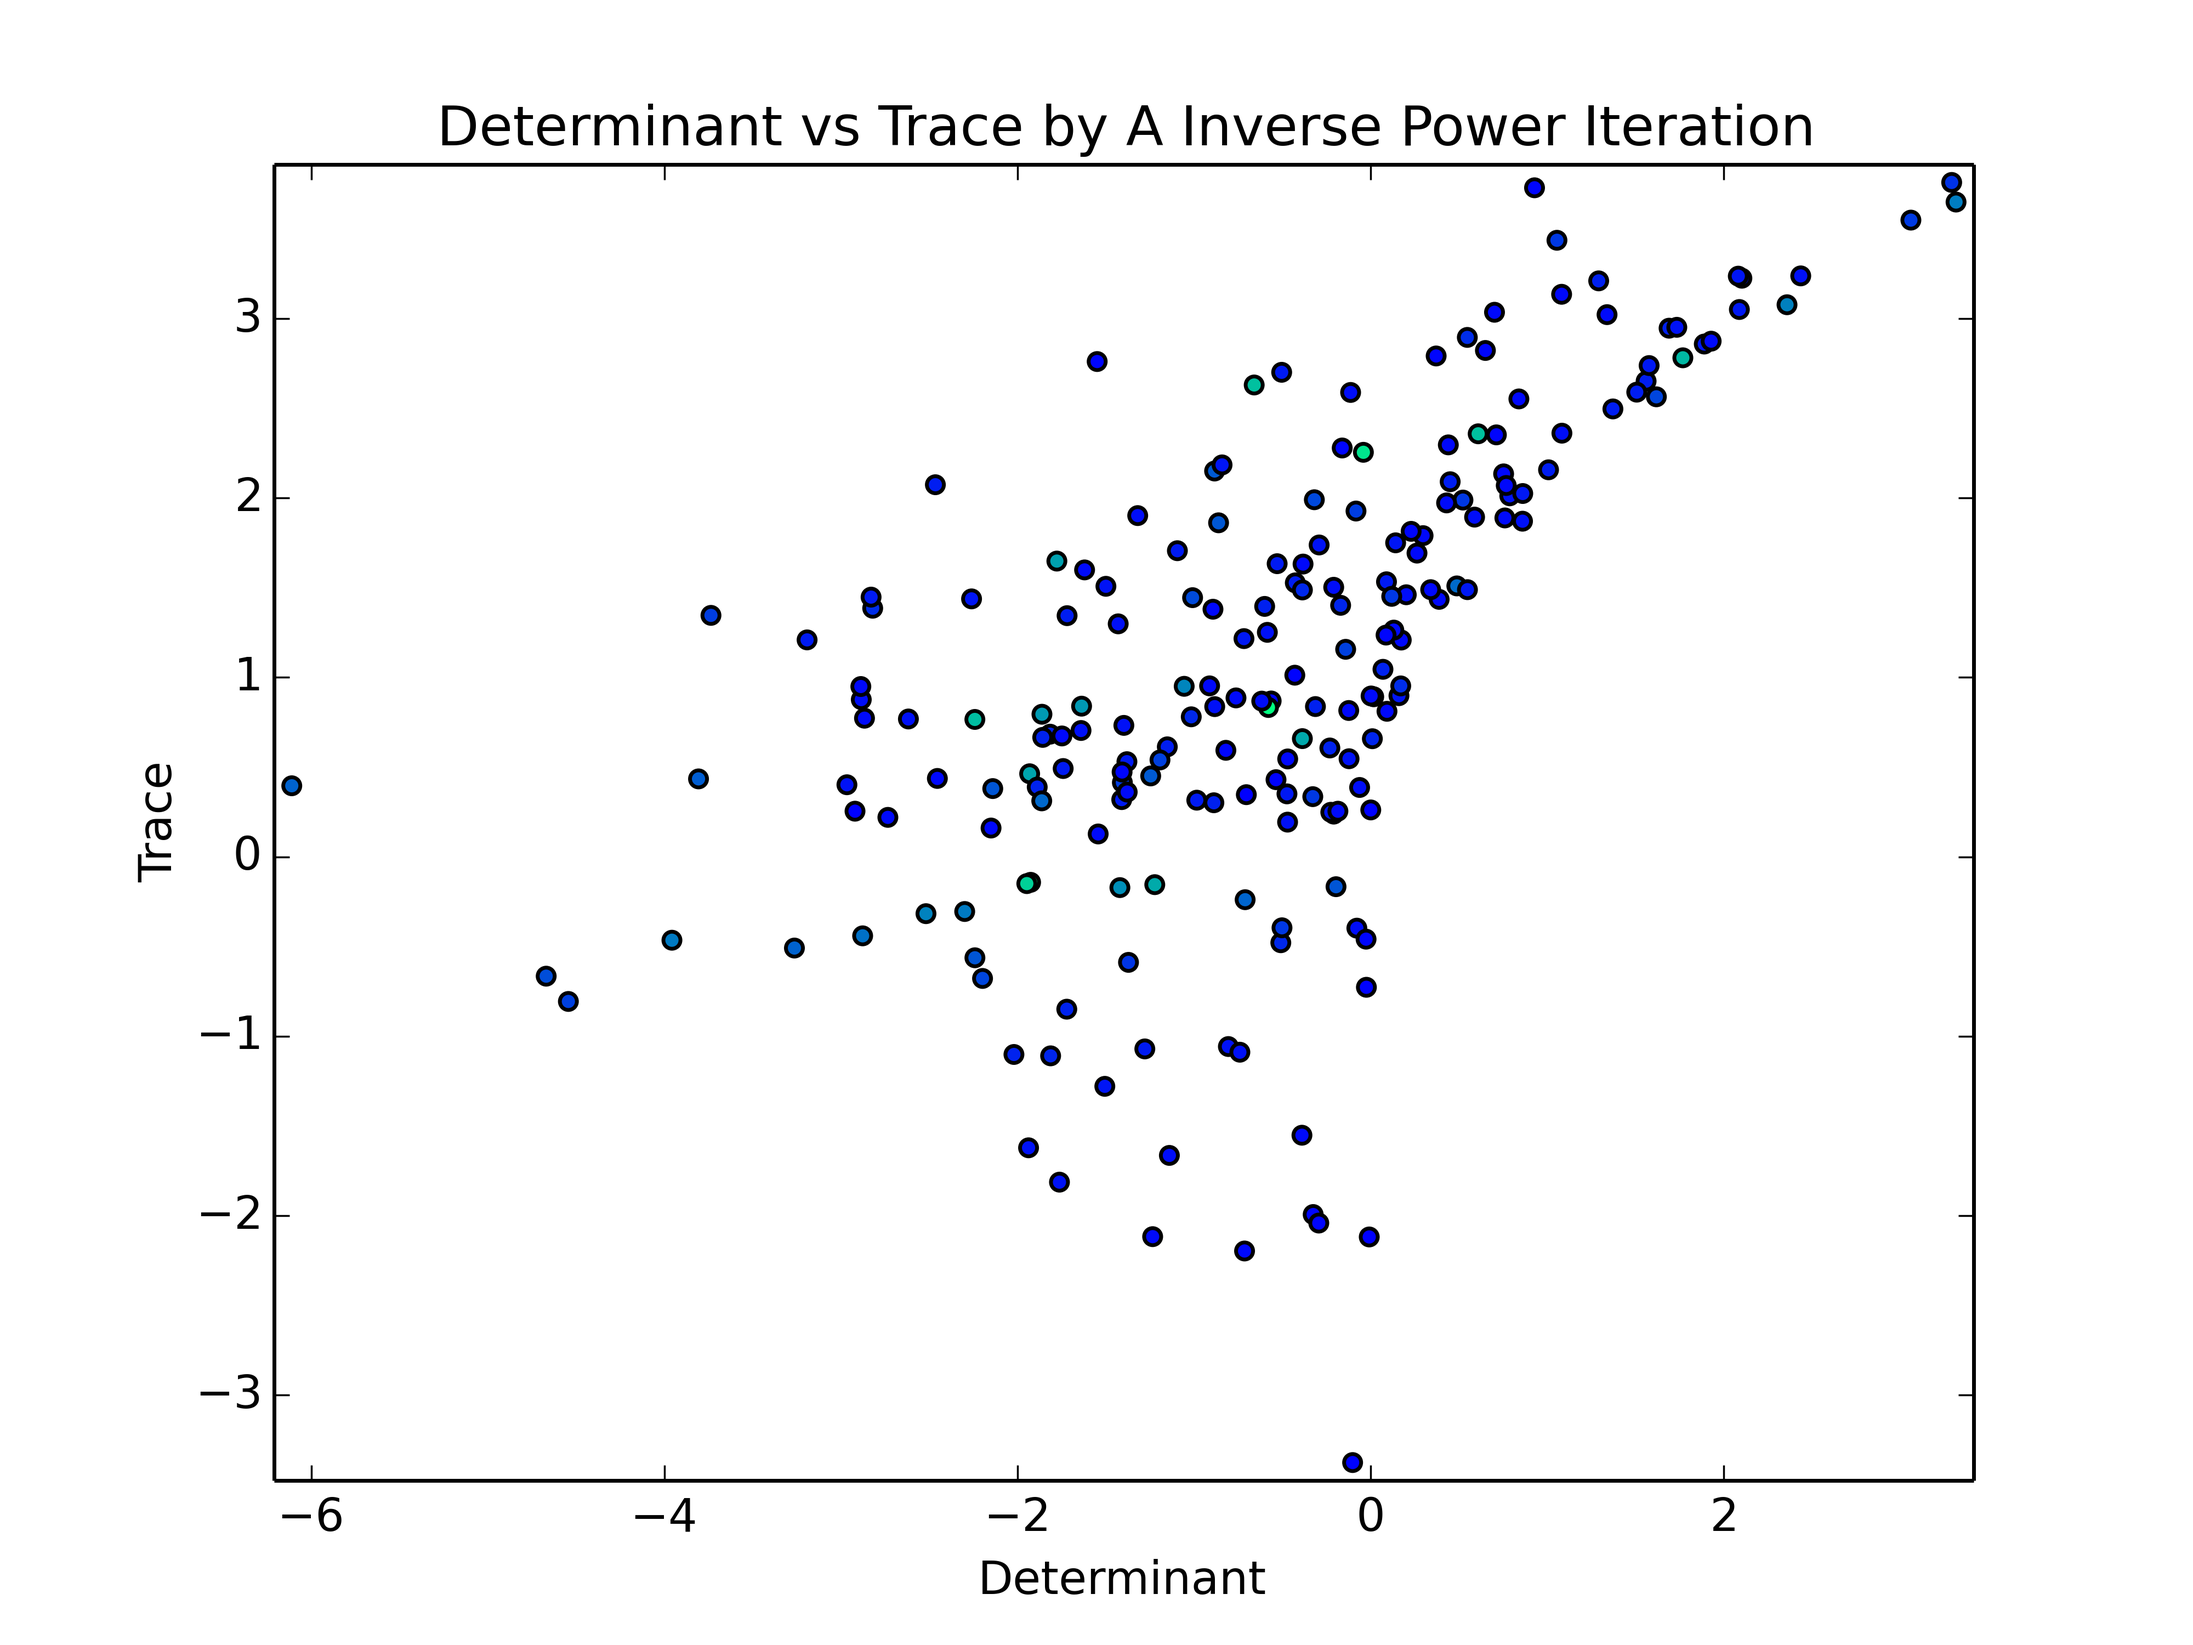
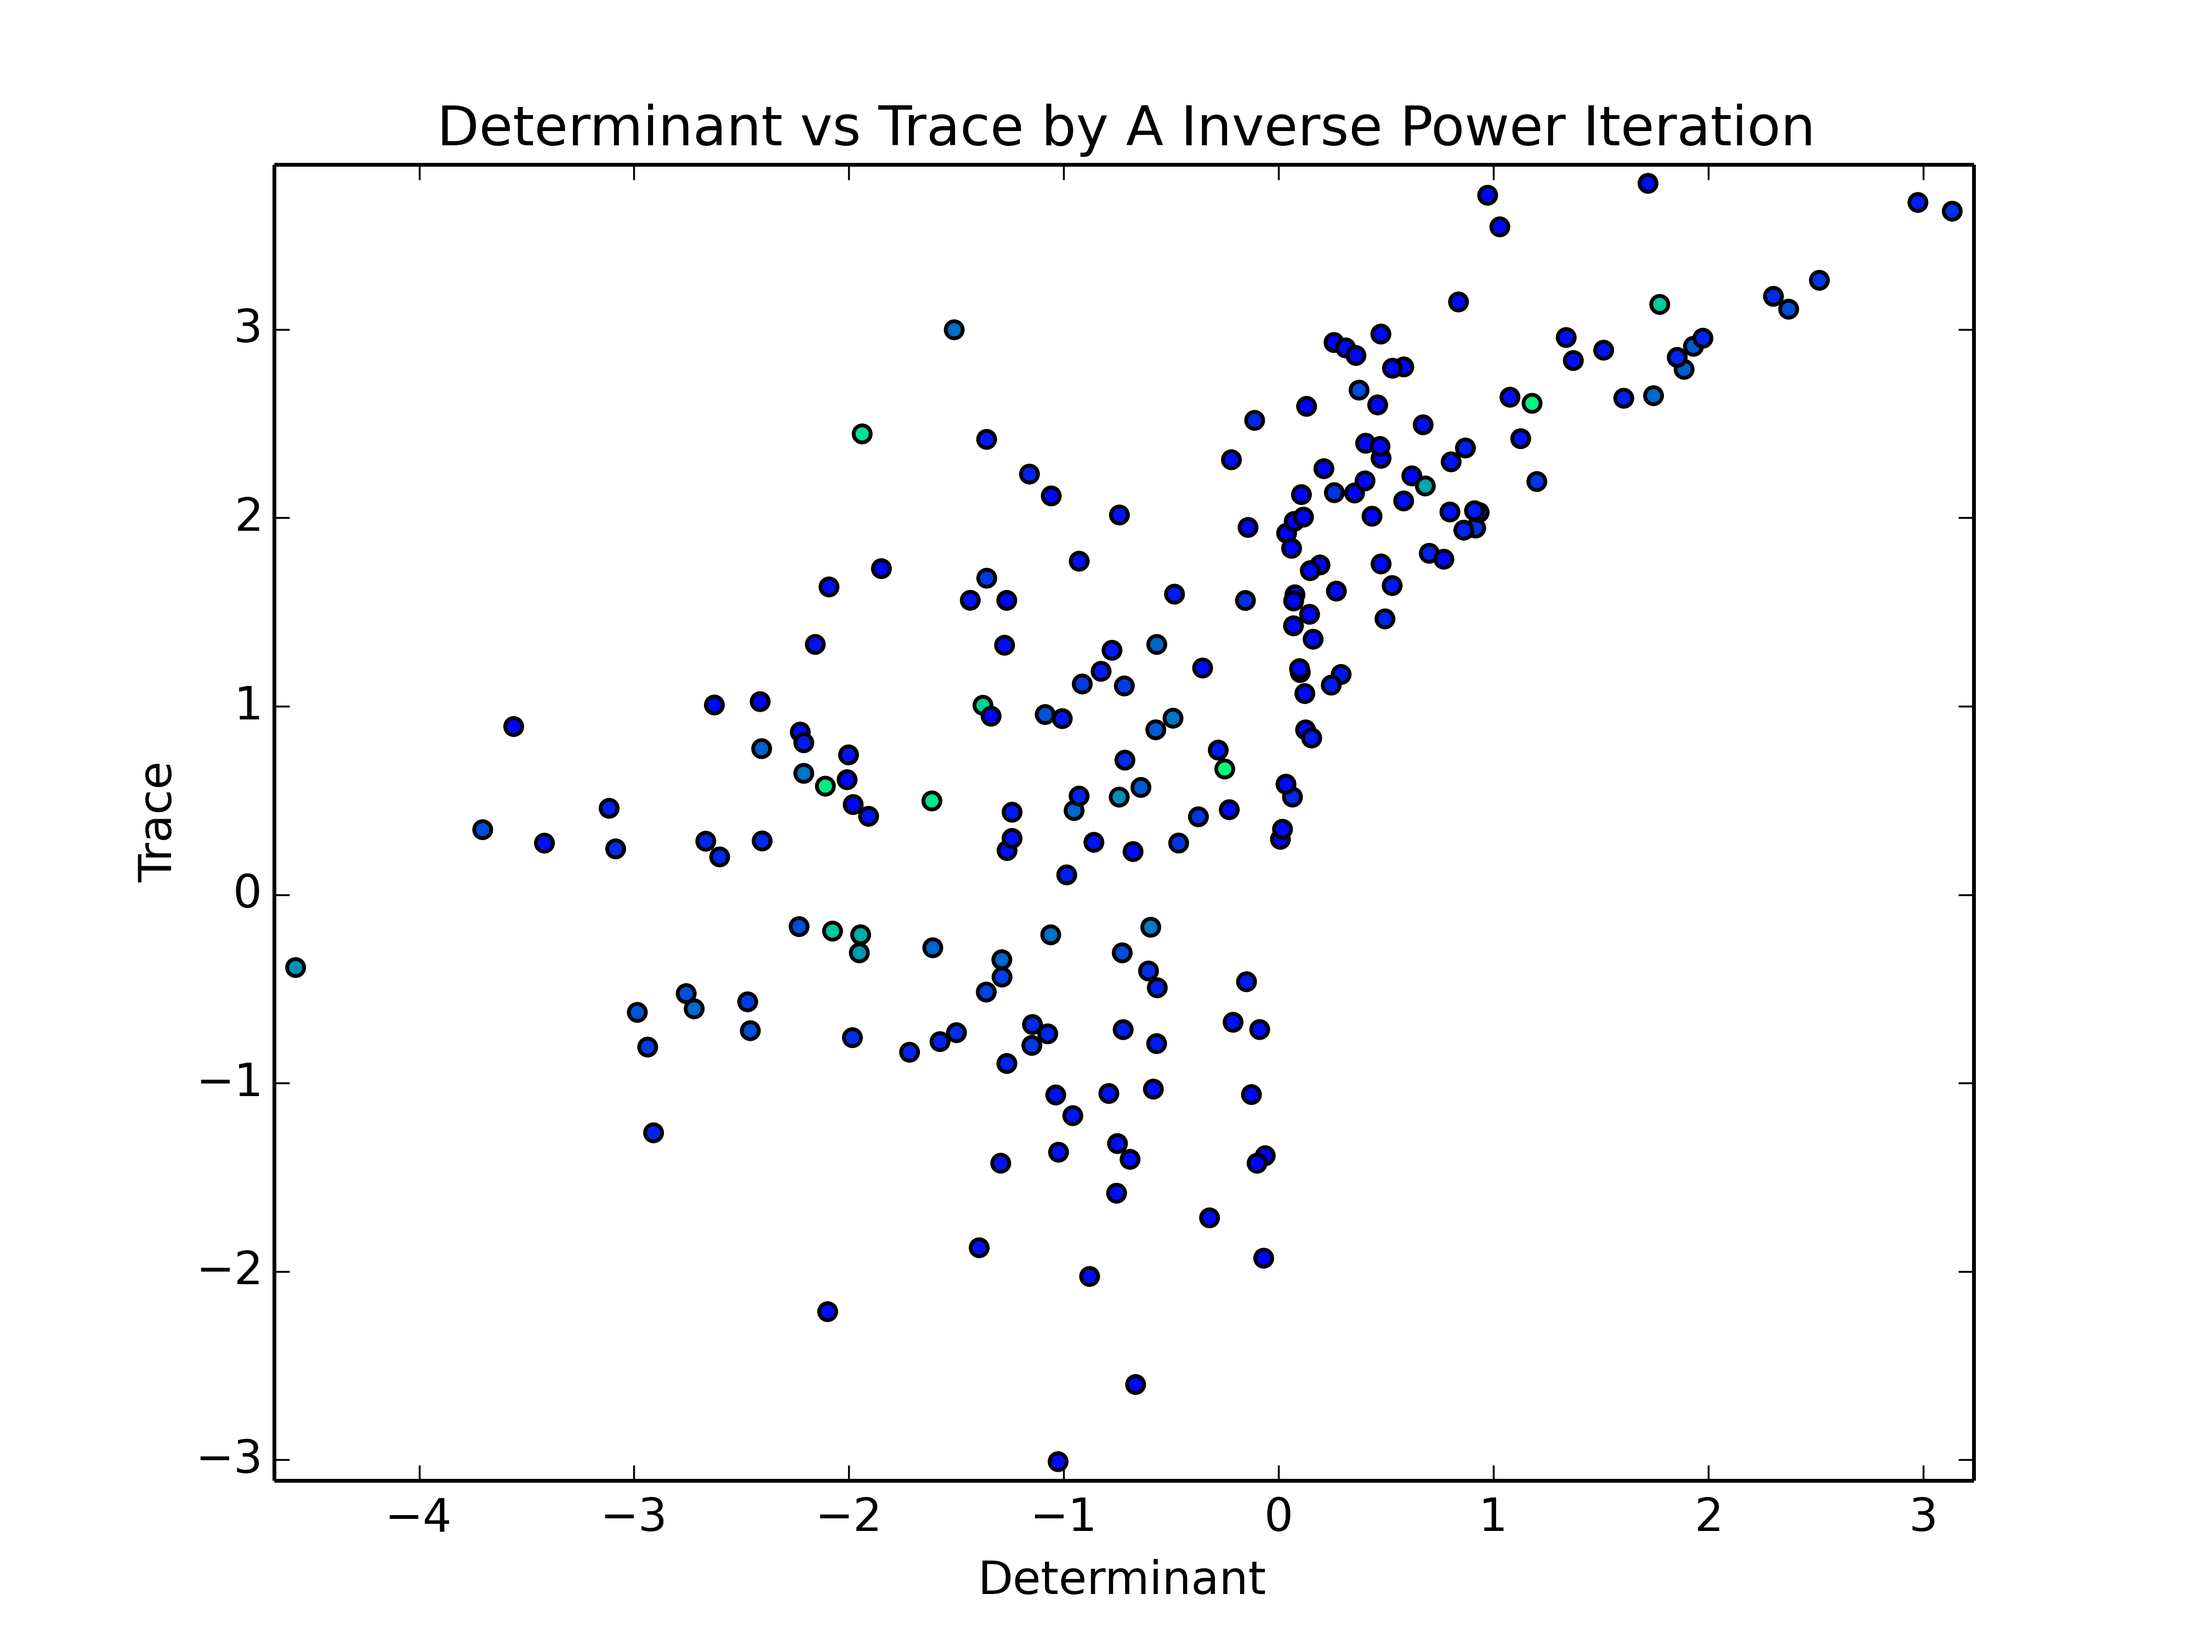
Run 3ii

diff --git a/writing_3_part_ii.py b/writing_3_part_ii.py
@@ -1,0 +1,29 @@
+import numpy as np
+
+from sys import stdout
+from iterative_methods import power
+import util
+
+A = [-2, 1, 2, 0, 2, 3, 2, 1, -2]
+A = np.reshape(A, (3, 3))
+P = (1 + 4) / 2.
+VECTOR = np.array([1, 0, 0]).reshape((3, 1))
+
+
+def main(): 
+    p1 = -P
+    a1 = A - util.identity(3) * p1
+    p2 = P
+    a1 = np.linalg.inv(a1)
+    a2 = A - util.identity(3) * p2
+    a2 = np.linalg.inv(a2)
+    val, vec, n_iter = power(a1, VECTOR, VECTOR, 0.00005, 100)
+    val = val if val is None else 1 / val + p1
+    print "eigenvalue for p1: ", val
+    val, vec, n_iter = power(a2, VECTOR, VECTOR, 0.00005, 100)
+    val = val if val is None else 1 / val + p2
+    print "eigenvalue for p2: ", val
+
+
+if __name__ == "__main__":
+    main()

diff --git a/iterative_methods.py b/iterative_methods.py
@@ -57,7 +57,7 @@ def power(a, u_0, w, e, m):
             w_dot_u = np.transpose(w).dot(u_n)
             # if w_dot_u == 0:
             #     return None, None, i
-            eigenvalue = np.transpose(w).dot(u_next) / w_dot_u
+            eigenvalue = np.transpose(w).dot(a.dot(u_n)) / w_dot_u
             eigenvector = u_next
             return eigenvalue, eigenvector, i
         u_n = u_next

diff --git a/writing_3_part_i.py b/writing_3_part_i.py
@@ -1,5 +1,4 @@
 import numpy as np
-import pickle
 
 from sys import stdout
 from iterative_methods import power
